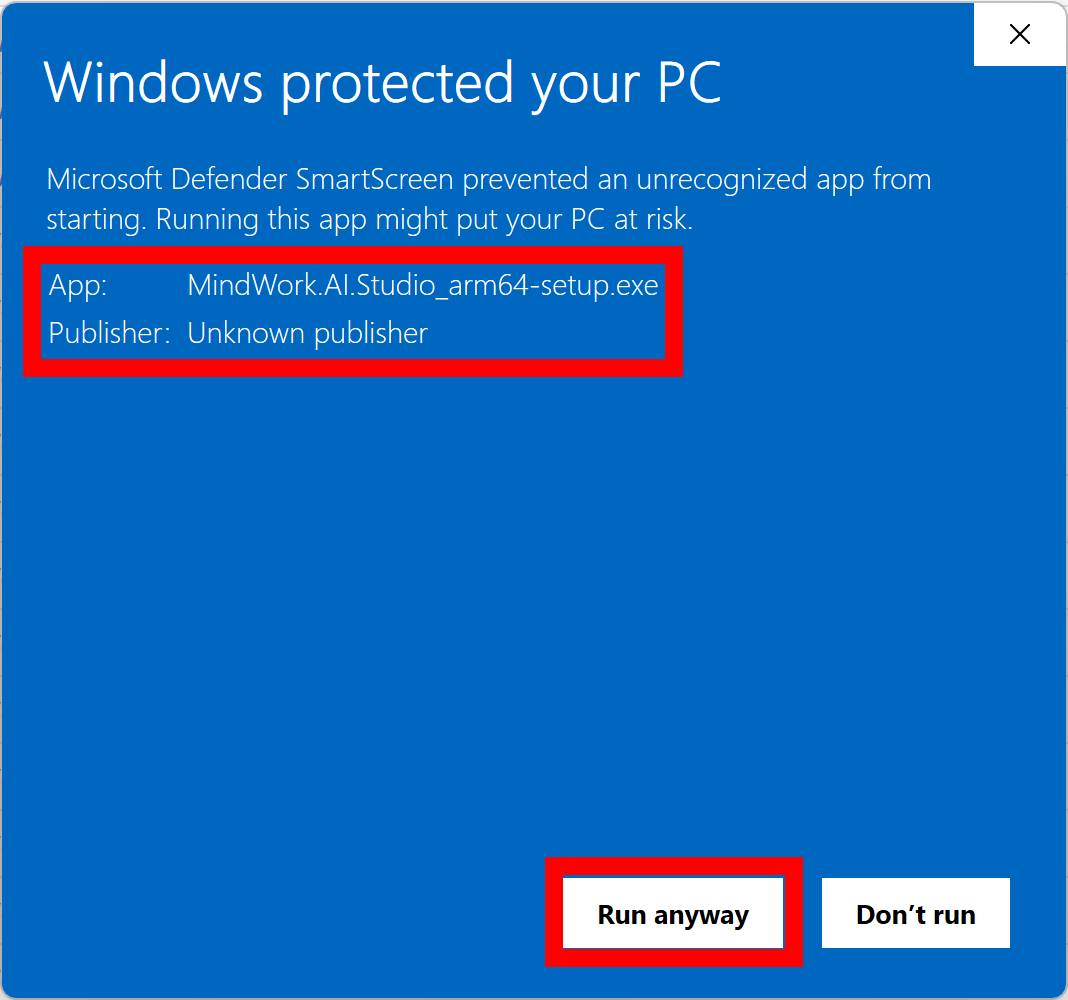
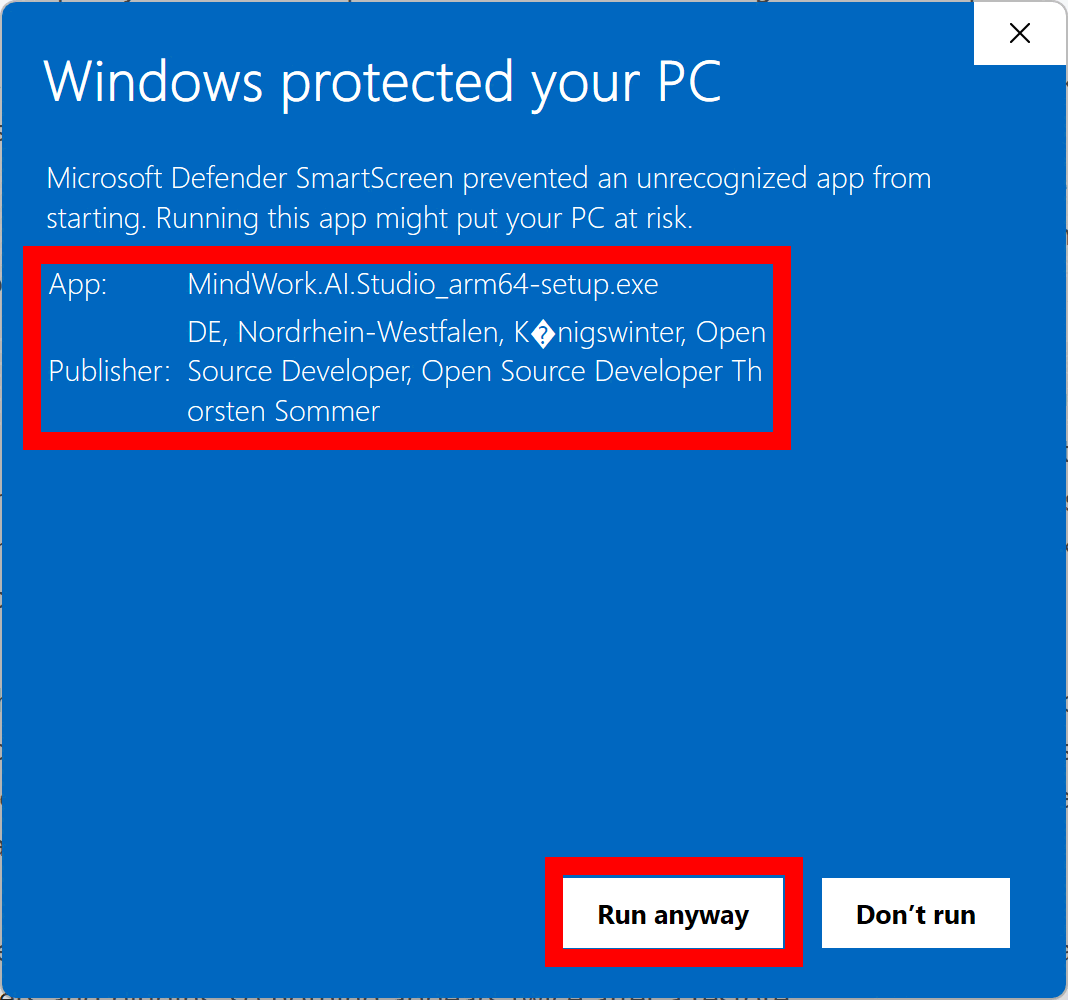
Updated the installation guide for signed builds (#1130)

diff --git a/documentation/Setup.md b/documentation/Setup.md
@@ -14,13 +14,17 @@ AI Studio is only available for modern 64-bit Windows systems. When you have an 
 
 - **Intel/AMD:** In almost all other cases, you have an Intel/AMD system. [Download the x64 version](https://github.com/MindWorkAI/AI-Studio/releases/latest/download/MindWork.AI.Studio_x64-setup.exe) of AI Studio.
 
-When you try to install the app, you get a message regarding protection of your PC (see screenshots below). For Windows to trust our app, we need to purchase a certificate that [costs around $1000 per year](https://github.com/MindWorkAI/Planning/issues/56). Would you like to help us with this? [Please consider supporting us](https://github.com/sponsors/MindWorkAI). You might want to [visit our release page](https://github.com/MindWorkAI/AI-Studio/releases/latest). There, we provide VirusTotal scan results for each release. If you are unsure about the safety of the app, you can check the results there. Ensure that the majority of scanners have a green checkmark.
-
-When you are confident in the app's safety, click on "More info" and then "Run anyway" to proceed with the installation:
+Our installer is signed, so Windows can show that it comes from us. Because our certificate is still new, Windows may nevertheless warn you for a while when you start the installer. In that case, click on "More info":
 
 ![Windows Protection 1](Windows%20Warning%201.png)
 
+Check that the publisher ends with "Open Source Developer Thorsten Sommer". Then click on "Run anyway" to proceed with the installation:
+
 ![Windows Protection 2](Windows%20Warning%202.png)
+
+When the publisher reads "Unknown publisher" or names somebody else, do not run the installer. Download it again from our [release page](https://github.com/MindWorkAI/AI-Studio/releases/latest) instead. There, we also provide VirusTotal scan results for each release.
+
+Signing AI Studio for Windows and macOS costs us around €150 per year. Would you like to help us with this? [Please consider supporting us](https://github.com/sponsors/MindWorkAI).
 
 Once the app is installed, it will check for updates automatically. If a new version is available, you will be prompted to install it.
 
@@ -39,23 +43,11 @@ After downloading the file, open the DMG file and drag the app to your Applicati
 
 ![macOS Installation 1](macOS%20Mount.png)
 
-When you try to open the app, you get a message that the app is damaged:
+When you open the app for the first time, macOS asks whether you want to open an app downloaded from the internet. AI Studio is signed and checked by Apple, so you can confirm with "Open". Afterward, the app starts like any other app.
 
-![macOS Installation 2](macOS%20Damage.png)
+Signing AI Studio for Windows and macOS costs us around €150 per year. Would you like to help us with this? [Please consider supporting us](https://github.com/sponsors/MindWorkAI).
 
-This is because we don't have an Apple Developer account, [which costs around $100 per year](https://github.com/MindWorkAI/Planning/issues/56). Would you like to help us with this? [Please consider supporting us](https://github.com/sponsors/MindWorkAI). You might want to [visit our release page](https://github.com/MindWorkAI/AI-Studio/releases/latest). There, we provide VirusTotal scan results for each release. If you are unsure about the safety of the app, you can check the results there. Ensure that the majority of scanners have a green checkmark.
-
-When you are confident in the app's safety, follow these steps:
-
-1. Start the Terminal app. Just use Spotlight (Cmd + Space) and type "Terminal."
-2. Open your Finder and navigate to the Applications folder.
-3. Find the MindWork AI Studio app.
-4. Type this command: `xattr -r -d com.apple.quarantine ` (with a space at the end).
-5. Drag the MindWork AI Studio app from the Finder into the Terminal window. The path to the app will be added to the command automatically.
-6. The final command should be: `xattr -r -d com.apple.quarantine "/Applications/MindWork AI Studio.app"`. Press Enter.
-7. Now, you might close the Terminal app and the Finder.
-
-The AI Studio app should now open without any issues. Once the app is installed, it will check for updates automatically. If a new version is available, you will be prompted to install it.
+Once the app is installed, it will check for updates automatically. If a new version is available, you will be prompted to install it.
 
 ## Linux
 MindWork AI Studio is available for modern 64-bit Linux systems. Starting with release v26.7.3, Flatpak is the recommended installation method. We test AI Studio on Ubuntu 24.04 and 26.04, Kubuntu 24.04, Fedora 43 or newer, and openSUSE Leap 16 or newer, but it should work on other distributions as well.
